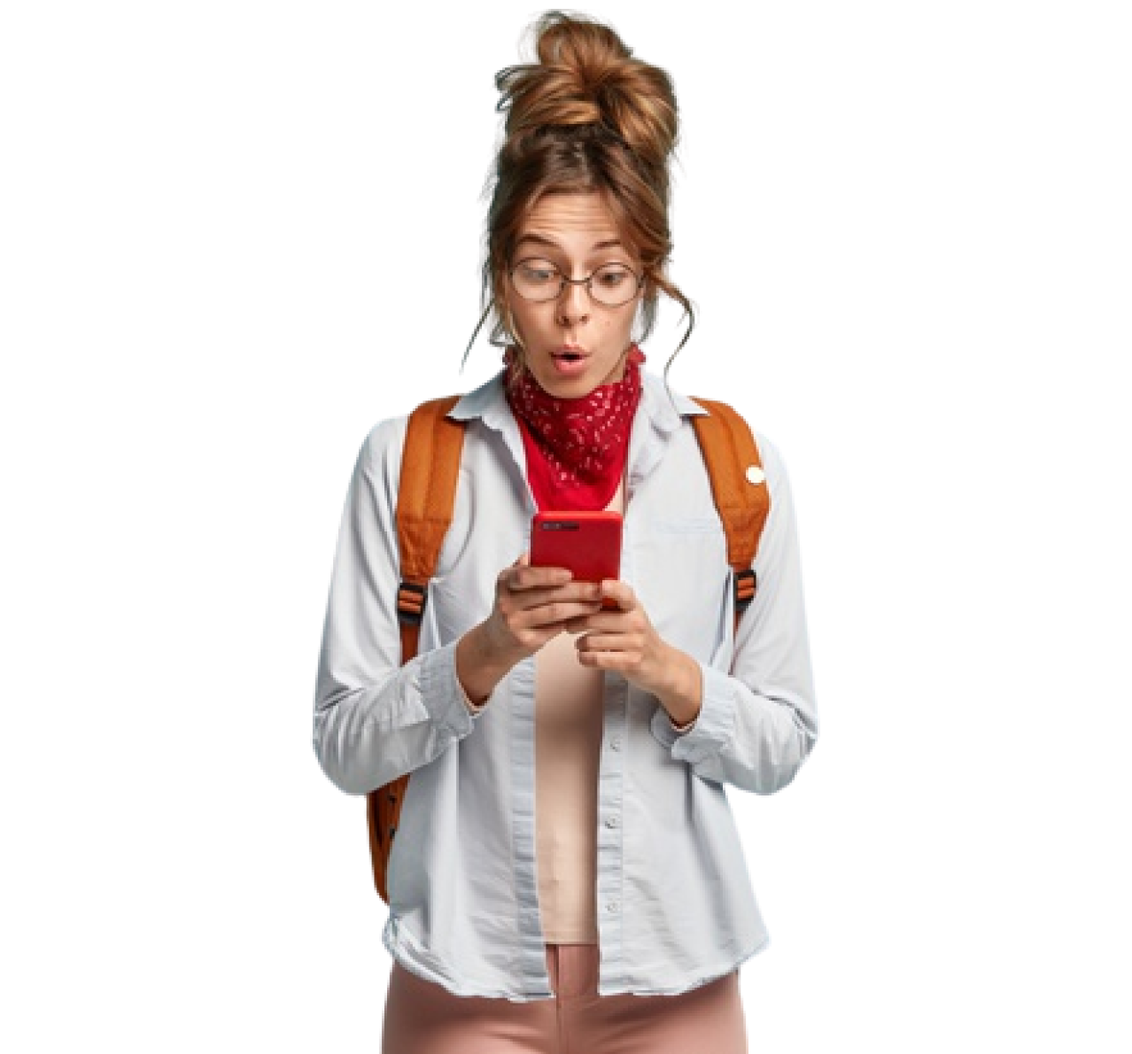
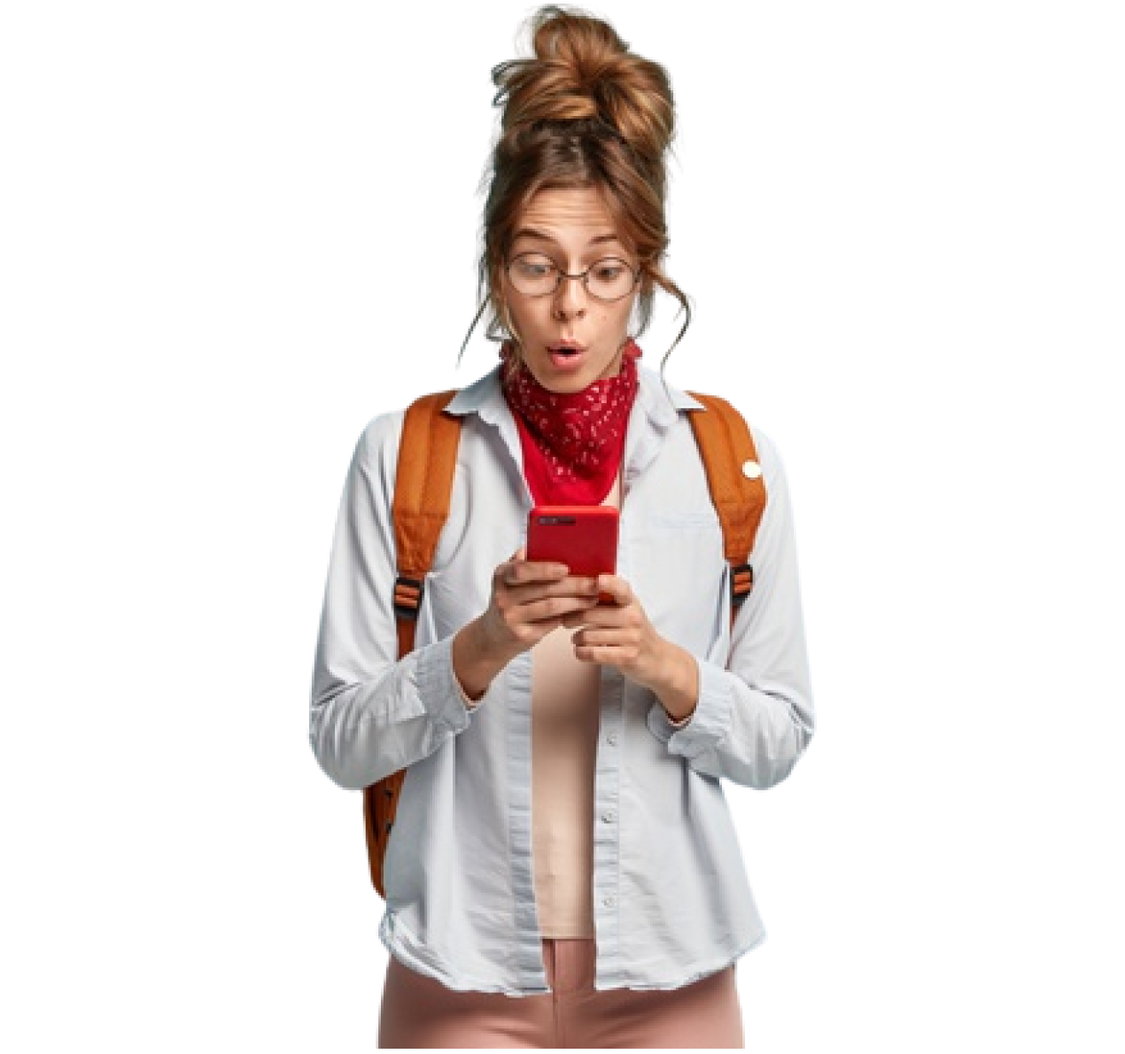
fixed

diff --git a/build/css/style.min.css b/build/css/style.min.css
@@ -1,2 +1,2 @@
-/*! normalize.css v8.0.1 | MIT License | github.com/necolas/normalize.css */html{line-height:1.15;-webkit-text-size-adjust:100%}details,main{display:block}h1{font-size:2em}hr{-webkit-box-sizing:content-box;box-sizing:content-box;height:0;overflow:visible}code,kbd,pre,samp{font-family:monospace,monospace;font-size:1em}a{background-color:rgba(0,0,0,0);text-decoration:none;color:inherit}abbr[title]{border-bottom:none;text-decoration:underline;-webkit-text-decoration:underline dotted;text-decoration:underline dotted}b,strong{font-weight:bolder}small{font-size:80%}sub,sup{font-size:75%;line-height:0;position:relative;vertical-align:baseline}sub{bottom:-.25em}sup{top:-.5em}img{border-style:none}button,input,optgroup,select,textarea{font-family:inherit;font-size:100%;line-height:1.15;margin:0}button,input{overflow:visible}button,select{text-transform:none}[type=button],[type=reset],[type=submit],button{-webkit-appearance:button}[type=button]::-moz-focus-inner,[type=reset]::-moz-focus-inner,[type=submit]::-moz-focus-inner,button::-moz-focus-inner{border-style:none;padding:0}[type=button]:-moz-focusring,[type=reset]:-moz-focusring,[type=submit]:-moz-focusring,button:-moz-focusring{outline:ButtonText dotted 1px}fieldset{padding:.35em .75em .625em}legend{-webkit-box-sizing:border-box;box-sizing:border-box;color:inherit;display:table;max-width:100%;padding:0;white-space:normal}progress{vertical-align:baseline}textarea{overflow:auto}[type=checkbox],[type=radio]{-webkit-box-sizing:border-box;box-sizing:border-box;padding:0}[type=number]::-webkit-inner-spin-button,[type=number]::-webkit-outer-spin-button{height:auto}[type=search]{-webkit-appearance:textfield;outline-offset:-2px}[type=search]::-webkit-search-decoration{-webkit-appearance:none}::-webkit-file-upload-button{-webkit-appearance:button;font:inherit}summary{display:list-item}[hidden],template{display:none}*,::after,::before{-webkit-box-sizing:border-box;box-sizing:border-box}h1,h2,h3,h4,h5,h6,li,ol,p,ul{margin:0;padding:0}img,svg{width:100%;height:100%;-o-object-fit:cover;object-fit:cover}@font-face{font-family:decorlz;src:local("decorlz"),url(../fonts/decorlz.woff2) format("woff2"),url(../fonts/decorlz.woff) format("woff");font-weight:400;font-style:normal;font-display:swap}@-webkit-keyframes spin{0%{-webkit-transform:rotate(0);transform:rotate(0)}100%{-webkit-transform:rotate(360deg);transform:rotate(360deg)}}@keyframes spin{0%{-webkit-transform:rotate(0);transform:rotate(0)}100%{-webkit-transform:rotate(360deg);transform:rotate(360deg)}}@-webkit-keyframes spin-reverse{0%{-webkit-transform:rotate(calc(-45deg * var(--r)));transform:rotate(calc(-45deg * var(--r)))}100%{-webkit-transform:rotate(calc(-360deg + -45deg * var(--r)));transform:rotate(calc(-360deg + -45deg * var(--r)))}}@keyframes spin-reverse{0%{-webkit-transform:rotate(calc(-45deg * var(--r)));transform:rotate(calc(-45deg * var(--r)))}100%{-webkit-transform:rotate(calc(-360deg + -45deg * var(--r)));transform:rotate(calc(-360deg + -45deg * var(--r)))}}body{margin:0;font-family:Poppins,sans-serif;font-style:normal;font-weight:500;font-size:15px;line-height:26px;color:#7c7c7c;background:#ecf7f3}.container{max-width:1113px;margin:0 auto}.header{position:relative;padding:30px 0;background:#ecf7f3}.header__wrapper{display:-webkit-box;display:-ms-flexbox;display:flex;-webkit-box-pack:justify;-ms-flex-pack:justify;justify-content:space-between;-webkit-box-align:center;-ms-flex-align:center;align-items:center}.header__btn{display:inline-block;padding:9px 23px;margin:0;border:0;border-radius:20px;cursor:pointer;-webkit-appearance:none;-moz-appearance:none;appearance:none;display:-webkit-box;display:-ms-flexbox;display:flex;-webkit-box-pack:center;-ms-flex-pack:center;justify-content:center;-webkit-box-align:center;-ms-flex-align:center;align-items:center;background:#48b774;color:#fff;font-size:16px;line-height:24px}.header__btn:hover{-webkit-box-shadow:2px 2px8px rgba(0,0,0,.25);box-shadow:2px 2px8px rgba(0,0,0,.25);-webkit-box-shadow:0 2px 4px rgba(0,0,0,.25);box-shadow:0 2px 4px rgba(0,0,0,.25)}.header__menu-btn{padding:0;margin:0;border:0;background-color:rgba(0,0,0,0);border-radius:0;cursor:pointer;-webkit-appearance:none;-moz-appearance:none;appearance:none;display:none}.logo{display:-webkit-box;display:-ms-flexbox;display:flex;-webkit-box-align:center;-ms-flex-align:center;align-items:center}.logo__icon{width:40px;height:40px;margin-right:8px}.logo__text{font-size:25px;line-height:38px;color:#2d2d2d}.menu{display:-webkit-box;display:-ms-flexbox;display:flex;-webkit-box-pack:justify;-ms-flex-pack:justify;justify-content:space-between;list-style:none;width:365px;height:24px}.menu__link{position:relative;font-weight:400;font-size:16px;line-height:24px;color:#4a4a4a}.menu__link::before{content:"";display:block;pointer-events:none;position:absolute;bottom:-4px;left:-16px;opacity:0;width:21px;height:2px;background:#fb9b69;-webkit-transition:.5s;-o-transition:.5s;transition:.5s}.menu__link:hover.menu__link::before{opacity:1;left:50%;-webkit-transform:translateX(-50%);-ms-transform:translateX(-50%);transform:translateX(-50%);-webkit-transition:.5s;-o-transition:.5s;transition:.5s}.homepage{padding:88px 0 0}.homepage__wrapper{position:relative;display:-webkit-box;display:-ms-flexbox;display:flex;-webkit-box-pack:justify;-ms-flex-pack:justify;justify-content:space-between}.homepage__block-text{max-width:597px}.homepage__title{font-weight:700;font-size:48px;line-height:65px;color:#2d2d2d;width:474px;margin-bottom:20px}.homepage__title span{color:#fb9b69}.homepage__description{margin-bottom:30px}.homepage__btn{display:inline-block;padding:9px 23px;margin:0 0 50px;border:0;border-radius:20px;cursor:pointer;-webkit-appearance:none;-moz-appearance:none;appearance:none;display:-webkit-box;display:-ms-flexbox;display:flex;-webkit-box-pack:center;-ms-flex-pack:center;justify-content:center;-webkit-box-align:center;-ms-flex-align:center;align-items:center;background:#48b774;color:#fff;font-size:16px;line-height:24px}.homepage__btn:hover{-webkit-box-shadow:2px 2px8px rgba(0,0,0,.25);box-shadow:2px 2px8px rgba(0,0,0,.25);-webkit-box-shadow:0 2px 4px rgba(0,0,0,.25);box-shadow:0 2px 4px rgba(0,0,0,.25)}.homepage__form{margin-bottom:62px}.form-search{position:relative;width:100%;height:62px;-webkit-box-shadow:0 20px 30px rgba(222,222,222,.25);box-shadow:0 20px 30px rgba(222,222,222,.25);border-radius:100px;overflow:hidden}.form-search__input{padding:21px 6px 22px 40px;width:100%;height:100%;outline:0;border:1px solid transparent;font-weight:400;font-size:16px;line-height:19px;letter-spacing:.01em;border-radius:100px;color:inherit;-webkit-transition:.3s;-o-transition:.3s;transition:.3s}.form-search__input::-webkit-input-placeholder{font-family:Roboto,sans-serif;color:#a2a2a2}.form-search__input::-moz-placeholder{font-family:Roboto,sans-serif;color:#a2a2a2}.form-search__input:-ms-input-placeholder{font-family:Roboto,sans-serif;color:#a2a2a2}.form-search__input::-ms-input-placeholder{font-family:Roboto,sans-serif;color:#a2a2a2}.form-search__input::placeholder{font-family:Roboto,sans-serif;color:#a2a2a2}.form-search__input:hover{border:1px solid #fb9b69;-webkit-transition:.3s;-o-transition:.3s;transition:.3s}.form-search__input:focus{border:1px solid #48b774;-webkit-transition:.3s;-o-transition:.3s;transition:.3s}.form-search__btn{display:inline-block;padding:15px;margin:0;border:0;border-radius:50%;cursor:pointer;-webkit-appearance:none;-moz-appearance:none;appearance:none;width:55px;height:55px;position:absolute;top:50%;right:6px;-webkit-transform:translateY(-50%);-ms-transform:translateY(-50%);transform:translateY(-50%);background:#48b774;fill:#fff;stroke:#fff}.form-search__btn:hover{-webkit-box-shadow:0 2px 4px rgba(0,0,0,.25);box-shadow:0 2px 4px rgba(0,0,0,.25)}.users{display:-webkit-box;display:-ms-flexbox;display:flex;-webkit-box-align:center;-ms-flex-align:center;align-items:center;margin-bottom:20px}.users__avatars{display:-webkit-box;display:-ms-flexbox;display:flex;margin-right:12px}.users__icon{position:relative;width:38px;height:38px;border:3px solid #fff;border-radius:50%}.users__icon:not(:first-child){margin-left:-16px}.users__icon_1{z-index:3}.users__icon_2{z-index:2}.users__icon_3{z-index:1}.users__icon_4{padding:7px;z-index:0;background:#ff8345}.users__link{font-family:Roboto,sans-serif;color:#fd905a}.users__link:hover{border-bottom:1px dotted #48b774}.animate{position:relative;display:-webkit-box;display:-ms-flexbox;display:flex;-webkit-box-pack:center;-ms-flex-pack:center;justify-content:center;width:100%}.animate__circle{position:absolute;top:-25px;right:0;display:-webkit-box;display:-ms-flexbox;display:flex;-webkit-box-pack:center;-ms-flex-pack:center;justify-content:center;-webkit-box-align:center;-ms-flex-align:center;align-items:center;width:450px;height:450px;border:2px solid #e8e8e8;border-radius:50%;list-style:none;-webkit-transform-origin:center;-ms-transform-origin:center;transform-origin:center;-webkit-animation-duration:8s;animation-duration:8s;-webkit-animation-iteration-count:infinite;animation-iteration-count:infinite;-webkit-animation-timing-function:linear;animation-timing-function:linear}.animate__circle-middle{width:280px;height:280px;border-radius:50%;background:#48b774}.animate__flag{position:absolute;left:-15px;-webkit-transform:all .5s;-ms-transform:all .5s;transform:all .5s;width:30px;height:30px;border:5px solid #fff;border-radius:50%;-webkit-transition:.5s;-o-transition:.5s;transition:.5s;-webkit-transform:rotate(calc(45deg * var(--r)));-ms-transform:rotate(calc(45deg * var(--r)));transform:rotate(calc(45deg * var(--r)));-webkit-transform-origin:240px;-ms-transform-origin:240px;transform-origin:240px;scale:0;-webkit-transition-delay:calc(.4s*var(--i));-o-transition-delay:calc(.4s*var(--i));transition-delay:calc(.4s*var(--i))}.animate__flag img{-webkit-filter:drop-shadow(0 10px 30px rgba(148, 148, 148, .1));filter:drop-shadow(0 10px 30px rgba(148, 148, 148, .1));-webkit-transform:rotate(calc(-45deg * var(--r)));-ms-transform:rotate(calc(-45deg * var(--r)));transform:rotate(calc(-45deg * var(--r)));-webkit-transform-origin:center;-ms-transform-origin:center;transform-origin:center;-webkit-animation-duration:8s;animation-duration:8s;-webkit-animation-iteration-count:infinite;animation-iteration-count:infinite;-webkit-animation-timing-function:linear;animation-timing-function:linear}.animate__flag:nth-of-type(2){left:-30px;width:60px;height:60px;-webkit-transform-origin:255px;-ms-transform-origin:255px;transform-origin:255px}.animate__flag:nth-of-type(3),.animate__flag:nth-of-type(4){left:-25px;width:50px;height:50px;-webkit-transform-origin:250px;-ms-transform-origin:250px;transform-origin:250px}.animate__girl-img{position:relative;z-index:6;width:100%;height:100%;margin-right:-180px;margin-bottom:0}.form-err{color:#ea5b5b;position:absolute;left:40px;top:0;font-size:13px}@media screen and (max-width:1193px){.container{max-width:913px}.homepage__block-text{max-width:470px}.homepage__title{font-size:46px}.animate__girl-img{margin-right:0}}@media screen and (max-width:992px){.container{max-width:728px}.menu{width:320px}.homepage{padding:40px 0 0}.homepage__wrapper{-webkit-box-orient:vertical;-webkit-box-direction:normal;-ms-flex-direction:column;flex-direction:column}.homepage__block-text{max-width:100%}.homepage__title{text-align:center;width:100%}.homepage__btn{margin-right:auto;margin-left:auto}.animate__circle{right:auto}}@media screen and (max-width:768px){.container{max-width:96%;min-width:305px}.header{padding:16px 0}.header__logo .logo__text{display:none}.header__menu-btn{display:block;width:40px;height:40px}.header__menu-btn span{position:relative;display:block;width:100%;height:3px;border-radius:8px;background:#fb9b69;-webkit-transition:.5s;-o-transition:.5s;transition:.5s}.header__menu-btn span::after{position:absolute;top:-8px;left:50%;-webkit-transform:translateX(-50%);-ms-transform:translateX(-50%);transform:translateX(-50%);content:"";display:block;width:80%;height:3px;border-radius:8px;background:#48b774;-webkit-transition:.5s;-o-transition:.5s;transition:.5s}.header__menu-btn span::before{position:absolute;top:8px;left:50%;-webkit-transform:translateX(-50%);-ms-transform:translateX(-50%);transform:translateX(-50%);content:"";display:block;width:80%;height:3px;border-radius:8px;background:#48b774;-webkit-transition:.5s;-o-transition:.5s;transition:.5s}.header__menu-btn_active span{background:rgba(0,0,0,0);-webkit-transition:.5s;-o-transition:.5s;transition:.5s}.header__menu-btn_active span::after{top:50%;-webkit-transform:translate(-50%,-50%) rotate(45deg);-ms-transform:translate(-50%,-50%) rotate(45deg);transform:translate(-50%,-50%) rotate(45deg);-webkit-transition:.5s;-o-transition:.5s;transition:.5s}.header__menu-btn_active span::before{top:50%;-webkit-transform:translate(-50%,-50%) rotate(-45deg);-ms-transform:translate(-50%,-50%) rotate(-45deg);transform:translate(-50%,-50%) rotate(-45deg);-webkit-transition:.5s;-o-transition:.5s;transition:.5s}.menu{position:absolute;top:-200px;left:0;right:0;width:100%;height:168px;-webkit-box-orient:vertical;-webkit-box-direction:normal;-ms-flex-direction:column;flex-direction:column;-webkit-box-pack:space-evenly;-ms-flex-pack:space-evenly;justify-content:space-evenly;-webkit-box-align:center;-ms-flex-align:center;align-items:center;z-index:-1;-webkit-transition:.5s;-o-transition:.5s;transition:.5s;opacity:0;background:#ecf7f3}.menu__link:hover.menu__link::before{left:-2px;-webkit-transform:translate(0,0);-ms-transform:translate(0,0);transform:translate(0,0)}.menu__link::before{opacity:1;left:-2px}.menu_open{top:60px;opacity:1;z-index:2}}@media screen and (max-width:568px){.animate__circle{width:380px;height:380px}.animate__circle-middle{width:220px;height:220px}.animate__flag{-webkit-transform-origin:205px;-ms-transform-origin:205px;transform-origin:205px}.animate__flag:nth-of-type(2){-webkit-transform-origin:210px;-ms-transform-origin:210px;transform-origin:210px}.animate__flag:nth-of-type(3),.animate__flag:nth-of-type(4){-webkit-transform-origin:215px;-ms-transform-origin:215px;transform-origin:215px}}@media screen and (max-width:460px){.animate__circle{width:330px;height:330px}.animate__circle-middle{width:200px;height:200px}.animate__flag{-webkit-transform-origin:180px;-ms-transform-origin:180px;transform-origin:180px}.animate__flag:nth-of-type(2){-webkit-transform-origin:195px;-ms-transform-origin:195px;transform-origin:195px}.animate__flag:nth-of-type(3),.animate__flag:nth-of-type(4){-webkit-transform-origin:190px;-ms-transform-origin:190px;transform-origin:190px}}@media screen and (max-width:390px){.animate__circle{width:240px;height:240px}.animate__circle-middle{width:160px;height:160px}.animate__flag{-webkit-transform-origin:135px;-ms-transform-origin:135px;transform-origin:135px}.animate__flag:nth-of-type(2){-webkit-transform-origin:125px;-ms-transform-origin:125px;transform-origin:125px;width:30px;height:30px}.animate__flag:nth-of-type(3),.animate__flag:nth-of-type(4){-webkit-transform-origin:135px;-ms-transform-origin:135px;transform-origin:135px;width:30px;height:30px}}
+/*! normalize.css v8.0.1 | MIT License | github.com/necolas/normalize.css */html{line-height:1.15;-webkit-text-size-adjust:100%}details,main{display:block}h1{font-size:2em}hr{-webkit-box-sizing:content-box;box-sizing:content-box;height:0;overflow:visible}code,kbd,pre,samp{font-family:monospace,monospace;font-size:1em}a{background-color:rgba(0,0,0,0);text-decoration:none;color:inherit}abbr[title]{border-bottom:none;text-decoration:underline;-webkit-text-decoration:underline dotted;text-decoration:underline dotted}b,strong{font-weight:bolder}small{font-size:80%}sub,sup{font-size:75%;line-height:0;position:relative;vertical-align:baseline}sub{bottom:-.25em}sup{top:-.5em}img{border-style:none}button,input,optgroup,select,textarea{font-family:inherit;font-size:100%;line-height:1.15;margin:0}button,input{overflow:visible}button,select{text-transform:none}[type=button],[type=reset],[type=submit],button{-webkit-appearance:button}[type=button]::-moz-focus-inner,[type=reset]::-moz-focus-inner,[type=submit]::-moz-focus-inner,button::-moz-focus-inner{border-style:none;padding:0}[type=button]:-moz-focusring,[type=reset]:-moz-focusring,[type=submit]:-moz-focusring,button:-moz-focusring{outline:ButtonText dotted 1px}fieldset{padding:.35em .75em .625em}legend{-webkit-box-sizing:border-box;box-sizing:border-box;color:inherit;display:table;max-width:100%;padding:0;white-space:normal}progress{vertical-align:baseline}textarea{overflow:auto}[type=checkbox],[type=radio]{-webkit-box-sizing:border-box;box-sizing:border-box;padding:0}[type=number]::-webkit-inner-spin-button,[type=number]::-webkit-outer-spin-button{height:auto}[type=search]{-webkit-appearance:textfield;outline-offset:-2px}[type=search]::-webkit-search-decoration{-webkit-appearance:none}::-webkit-file-upload-button{-webkit-appearance:button;font:inherit}summary{display:list-item}[hidden],template{display:none}*,::after,::before{-webkit-box-sizing:border-box;box-sizing:border-box}h1,h2,h3,h4,h5,h6,li,ol,p,ul{margin:0;padding:0}img,svg{width:100%;height:100%;-o-object-fit:cover;object-fit:cover}@font-face{font-family:decorlz;src:local("decorlz"),url(../fonts/decorlz.woff2) format("woff2"),url(../fonts/decorlz.woff) format("woff");font-weight:400;font-style:normal;font-display:swap}@-webkit-keyframes spin{0%{-webkit-transform:rotate(0);transform:rotate(0)}100%{-webkit-transform:rotate(360deg);transform:rotate(360deg)}}@keyframes spin{0%{-webkit-transform:rotate(0);transform:rotate(0)}100%{-webkit-transform:rotate(360deg);transform:rotate(360deg)}}@-webkit-keyframes spin-reverse{0%{-webkit-transform:rotate(calc(-45deg * var(--r)));transform:rotate(calc(-45deg * var(--r)))}100%{-webkit-transform:rotate(calc(-360deg + -45deg * var(--r)));transform:rotate(calc(-360deg + -45deg * var(--r)))}}@keyframes spin-reverse{0%{-webkit-transform:rotate(calc(-45deg * var(--r)));transform:rotate(calc(-45deg * var(--r)))}100%{-webkit-transform:rotate(calc(-360deg + -45deg * var(--r)));transform:rotate(calc(-360deg + -45deg * var(--r)))}}body{margin:0;font-family:Poppins,sans-serif;font-style:normal;font-weight:500;font-size:15px;line-height:26px;color:#7c7c7c;background:#ecf7f3}.container{max-width:1113px;margin:0 auto}.header{position:relative;padding:30px 0;background:#ecf7f3}.header__wrapper{position:relative;display:-webkit-box;display:-ms-flexbox;display:flex;-webkit-box-pack:justify;-ms-flex-pack:justify;justify-content:space-between;-webkit-box-align:center;-ms-flex-align:center;align-items:center}.header__btn{display:inline-block;padding:9px 23px;margin:0;border:0;border-radius:20px;cursor:pointer;-webkit-appearance:none;-moz-appearance:none;appearance:none;display:-webkit-box;display:-ms-flexbox;display:flex;-webkit-box-pack:center;-ms-flex-pack:center;justify-content:center;-webkit-box-align:center;-ms-flex-align:center;align-items:center;background:#48b774;color:#fff;font-size:16px;line-height:24px}.header__btn:hover{-webkit-box-shadow:2px 2px8px rgba(0,0,0,.25);box-shadow:2px 2px8px rgba(0,0,0,.25);-webkit-box-shadow:0 2px 4px rgba(0,0,0,.25);box-shadow:0 2px 4px rgba(0,0,0,.25)}.header__menu-btn{padding:0;margin:0;border:0;background-color:rgba(0,0,0,0);border-radius:0;cursor:pointer;-webkit-appearance:none;-moz-appearance:none;appearance:none;display:none}.logo{display:-webkit-box;display:-ms-flexbox;display:flex;-webkit-box-align:center;-ms-flex-align:center;align-items:center}.logo__icon{width:40px;height:40px;margin-right:8px}.logo__text{font-size:25px;line-height:38px;color:#2d2d2d}.menu{display:-webkit-box;display:-ms-flexbox;display:flex;-webkit-box-pack:justify;-ms-flex-pack:justify;justify-content:space-between;list-style:none;width:365px;height:24px}.menu__link{position:relative;font-weight:400;font-size:16px;line-height:24px;color:#4a4a4a}.menu__link::before{content:"";display:block;pointer-events:none;position:absolute;bottom:-4px;left:-16px;opacity:0;width:21px;height:2px;background:#fb9b69;-webkit-transition:.5s;-o-transition:.5s;transition:.5s}.menu__link:hover.menu__link::before{opacity:1;left:50%;-webkit-transform:translateX(-50%);-ms-transform:translateX(-50%);transform:translateX(-50%);-webkit-transition:.5s;-o-transition:.5s;transition:.5s}.homepage{padding:88px 0 0;overflow:hidden}.homepage__wrapper{position:relative;display:-webkit-box;display:-ms-flexbox;display:flex;-webkit-box-pack:justify;-ms-flex-pack:justify;justify-content:space-between}.homepage__block-text{max-width:597px}.homepage__title{font-weight:700;font-size:48px;line-height:65px;color:#2d2d2d;width:474px;margin-bottom:20px}.homepage__title span{color:#fb9b69}.homepage__description{margin-bottom:30px}.homepage__btn{display:inline-block;padding:9px 23px;margin:0 0 50px;border:0;border-radius:20px;cursor:pointer;-webkit-appearance:none;-moz-appearance:none;appearance:none;display:-webkit-box;display:-ms-flexbox;display:flex;-webkit-box-pack:center;-ms-flex-pack:center;justify-content:center;-webkit-box-align:center;-ms-flex-align:center;align-items:center;background:#48b774;color:#fff;font-size:16px;line-height:24px}.homepage__btn:hover{-webkit-box-shadow:2px 2px8px rgba(0,0,0,.25);box-shadow:2px 2px8px rgba(0,0,0,.25);-webkit-box-shadow:0 2px 4px rgba(0,0,0,.25);box-shadow:0 2px 4px rgba(0,0,0,.25)}.homepage__form{margin-bottom:62px}.form-search{position:relative;width:100%;height:62px;-webkit-box-shadow:0 20px 30px rgba(222,222,222,.25);box-shadow:0 20px 30px rgba(222,222,222,.25);border-radius:100px;overflow:hidden}.form-search__input{padding:21px 6px 22px 40px;width:100%;height:100%;outline:0;border:1px solid transparent;font-weight:400;font-size:16px;line-height:19px;letter-spacing:.01em;border-radius:100px;color:inherit;-webkit-transition:.3s;-o-transition:.3s;transition:.3s}.form-search__input::-webkit-input-placeholder{font-family:Roboto,sans-serif;color:#a2a2a2}.form-search__input::-moz-placeholder{font-family:Roboto,sans-serif;color:#a2a2a2}.form-search__input:-ms-input-placeholder{font-family:Roboto,sans-serif;color:#a2a2a2}.form-search__input::-ms-input-placeholder{font-family:Roboto,sans-serif;color:#a2a2a2}.form-search__input::placeholder{font-family:Roboto,sans-serif;color:#a2a2a2}.form-search__input:hover{border:1px solid #fb9b69;-webkit-transition:.3s;-o-transition:.3s;transition:.3s}.form-search__input:focus{border:1px solid #48b774;-webkit-transition:.3s;-o-transition:.3s;transition:.3s}.form-search__btn{display:inline-block;padding:15px;margin:0;border:0;border-radius:50%;cursor:pointer;-webkit-appearance:none;-moz-appearance:none;appearance:none;width:55px;height:55px;position:absolute;top:50%;right:6px;-webkit-transform:translateY(-50%);-ms-transform:translateY(-50%);transform:translateY(-50%);background:#48b774;fill:#fff;stroke:#fff}.form-search__btn:hover{-webkit-box-shadow:0 2px 4px rgba(0,0,0,.25);box-shadow:0 2px 4px rgba(0,0,0,.25)}.users{display:-webkit-box;display:-ms-flexbox;display:flex;-webkit-box-align:center;-ms-flex-align:center;align-items:center;margin-bottom:20px}.users__avatars{display:-webkit-box;display:-ms-flexbox;display:flex;margin-right:12px}.users__icon{position:relative;width:38px;height:38px;border:3px solid #fff;border-radius:50%}.users__icon:not(:first-child){margin-left:-16px}.users__icon_1{z-index:3}.users__icon_2{z-index:2}.users__icon_3{z-index:1}.users__icon_4{padding:7px;z-index:0;background:#ff8345}.users__link{font-family:Roboto,sans-serif;color:#fd905a}.users__link:hover{border-bottom:1px dotted #48b774}.animate{position:relative;display:-webkit-box;display:-ms-flexbox;display:flex;-webkit-box-pack:center;-ms-flex-pack:center;justify-content:center;width:100%}.animate__circle{position:absolute;top:-25px;right:0;display:-webkit-box;display:-ms-flexbox;display:flex;-webkit-box-pack:center;-ms-flex-pack:center;justify-content:center;-webkit-box-align:center;-ms-flex-align:center;align-items:center;width:450px;height:450px;border:2px solid #e8e8e8;border-radius:50%;list-style:none;-webkit-transform-origin:center;-ms-transform-origin:center;transform-origin:center;-webkit-animation-duration:8s;animation-duration:8s;-webkit-animation-iteration-count:infinite;animation-iteration-count:infinite;-webkit-animation-timing-function:linear;animation-timing-function:linear}.animate__circle-middle{width:280px;height:280px;border-radius:50%;background:#48b774}.animate__flag{position:absolute;left:-15px;-webkit-transform:all .5s;-ms-transform:all .5s;transform:all .5s;width:30px;height:30px;border:5px solid #fff;border-radius:50%;-webkit-transition:.5s;-o-transition:.5s;transition:.5s;-webkit-transform:rotate(calc(45deg * var(--r)));-ms-transform:rotate(calc(45deg * var(--r)));transform:rotate(calc(45deg * var(--r)));-webkit-transform-origin:240px;-ms-transform-origin:240px;transform-origin:240px;scale:0;-webkit-transition-delay:calc(.4s*var(--i));-o-transition-delay:calc(.4s*var(--i));transition-delay:calc(.4s*var(--i))}.animate__flag img{-webkit-filter:drop-shadow(0 10px 30px rgba(148, 148, 148, .1));filter:drop-shadow(0 10px 30px rgba(148, 148, 148, .1));-webkit-transform:rotate(calc(-45deg * var(--r)));-ms-transform:rotate(calc(-45deg * var(--r)));transform:rotate(calc(-45deg * var(--r)));-webkit-transform-origin:center;-ms-transform-origin:center;transform-origin:center;-webkit-animation-duration:8s;animation-duration:8s;-webkit-animation-iteration-count:infinite;animation-iteration-count:infinite;-webkit-animation-timing-function:linear;animation-timing-function:linear}.animate__flag:nth-of-type(2){left:-30px;width:60px;height:60px;-webkit-transform-origin:255px;-ms-transform-origin:255px;transform-origin:255px}.animate__flag:nth-of-type(3),.animate__flag:nth-of-type(4){left:-25px;width:50px;height:50px;-webkit-transform-origin:250px;-ms-transform-origin:250px;transform-origin:250px}.animate__girl-img{position:relative;z-index:6;width:100%;height:100%;margin-right:-180px;margin-bottom:0}.form-err{color:#ea5b5b;position:absolute;left:40px;top:0;font-size:13px}@media screen and (max-width:1193px){.container{max-width:913px}.homepage__block-text{max-width:470px}.homepage__title{font-size:46px}.animate__girl-img{margin-right:0}}@media screen and (max-width:992px){.container{max-width:728px}.menu{width:320px}.homepage{padding:40px 0 0}.homepage__wrapper{-webkit-box-orient:vertical;-webkit-box-direction:normal;-ms-flex-direction:column;flex-direction:column}.homepage__block-text{max-width:100%;margin-bottom:45px}.homepage__title{text-align:center;width:100%}.homepage__btn{margin-right:auto;margin-left:auto}.animate__circle{right:auto}}@media screen and (max-width:768px){.container{max-width:96%;min-width:305px}.header{padding:16px 0}.header__logo .logo__text{display:none}.header__menu-btn{display:block;width:40px;height:40px}.header__menu-btn span{position:relative;display:block;width:100%;height:3px;border-radius:8px;background:#fb9b69;-webkit-transition:.5s;-o-transition:.5s;transition:.5s}.header__menu-btn span::after{position:absolute;top:-8px;left:50%;-webkit-transform:translateX(-50%);-ms-transform:translateX(-50%);transform:translateX(-50%);content:"";display:block;width:80%;height:3px;border-radius:8px;background:#48b774;-webkit-transition:.5s;-o-transition:.5s;transition:.5s}.header__menu-btn span::before{position:absolute;top:8px;left:50%;-webkit-transform:translateX(-50%);-ms-transform:translateX(-50%);transform:translateX(-50%);content:"";display:block;width:80%;height:3px;border-radius:8px;background:#48b774;-webkit-transition:.5s;-o-transition:.5s;transition:.5s}.header__menu-btn_active span{background:rgba(0,0,0,0);-webkit-transition:.5s;-o-transition:.5s;transition:.5s}.header__menu-btn_active span::after{top:50%;-webkit-transform:translate(-50%,-50%) rotate(45deg);-ms-transform:translate(-50%,-50%) rotate(45deg);transform:translate(-50%,-50%) rotate(45deg);-webkit-transition:.5s;-o-transition:.5s;transition:.5s}.header__menu-btn_active span::before{top:50%;-webkit-transform:translate(-50%,-50%) rotate(-45deg);-ms-transform:translate(-50%,-50%) rotate(-45deg);transform:translate(-50%,-50%) rotate(-45deg);-webkit-transition:.5s;-o-transition:.5s;transition:.5s}.menu{position:absolute;top:-200px;left:0;right:0;width:100%;height:168px;-webkit-box-orient:vertical;-webkit-box-direction:normal;-ms-flex-direction:column;flex-direction:column;-webkit-box-pack:space-evenly;-ms-flex-pack:space-evenly;justify-content:space-evenly;-webkit-box-align:center;-ms-flex-align:center;align-items:center;z-index:-1;-webkit-transition:.5s;-o-transition:.5s;transition:.5s;opacity:0;background:#ecf7f3}.menu__link:hover.menu__link::before{left:-2px;-webkit-transform:translate(0,0);-ms-transform:translate(0,0);transform:translate(0,0)}.menu__link::before{opacity:1;left:-2px}.menu_open{top:60px;opacity:1;z-index:2}}@media screen and (max-width:568px){.animate__circle{width:380px;height:380px}.animate__circle-middle{width:220px;height:220px}.animate__flag{-webkit-transform-origin:205px;-ms-transform-origin:205px;transform-origin:205px}.animate__flag:nth-of-type(2){-webkit-transform-origin:210px;-ms-transform-origin:210px;transform-origin:210px}.animate__flag:nth-of-type(3),.animate__flag:nth-of-type(4){-webkit-transform-origin:215px;-ms-transform-origin:215px;transform-origin:215px}}@media screen and (max-width:460px){.animate__circle{width:330px;height:330px}.animate__circle-middle{width:200px;height:200px}.animate__flag{-webkit-transform-origin:180px;-ms-transform-origin:180px;transform-origin:180px}.animate__flag:nth-of-type(2){-webkit-transform-origin:195px;-ms-transform-origin:195px;transform-origin:195px}.animate__flag:nth-of-type(3),.animate__flag:nth-of-type(4){-webkit-transform-origin:190px;-ms-transform-origin:190px;transform-origin:190px}}@media screen and (max-width:390px){.animate__circle{width:240px;height:240px}.animate__circle-middle{width:160px;height:160px}.animate__flag{-webkit-transform-origin:135px;-ms-transform-origin:135px;transform-origin:135px}.animate__flag:nth-of-type(2){-webkit-transform-origin:125px;-ms-transform-origin:125px;transform-origin:125px;width:30px;height:30px}.animate__flag:nth-of-type(3),.animate__flag:nth-of-type(4){-webkit-transform-origin:135px;-ms-transform-origin:135px;transform-origin:135px;width:30px;height:30px}}
 /*# sourceMappingURL=../sourcemaps/style.min.css.map */

diff --git a/src/sass/_media.sass b/src/sass/_media.sass
@@ -23,6 +23,7 @@
       flex-direction: column
     &__block-text
       max-width: 100%
+      margin-bottom: 45px
     &__title
       text-align: center
       width: 100%
@@ -40,6 +41,7 @@
     min-width: 305px
   .header
     padding: 16px 0
+
     &__logo .logo__text
       display: none
     &__menu-btn

diff --git a/src/sass/blocks/_homapage.sass b/src/sass/blocks/_homapage.sass
@@ -1,5 +1,6 @@
 .homepage
   padding: 88px 0 0 0
+  overflow: hidden
   &__wrapper
     position: relative
     display: flex
@@ -111,6 +112,7 @@
   display: flex
   justify-content: center
   width: 100%
+
   &__circle
     position: absolute
     top: -25px

diff --git a/src/sass/blocks/_header.sass b/src/sass/blocks/_header.sass
@@ -3,9 +3,11 @@
   padding: 30px 0
   background: $color-page-bg
   &__wrapper
+    position: relative
     display: flex
     justify-content: space-between
     align-items: center
+
   &__btn
     @include no-btn
     @include btn-green
